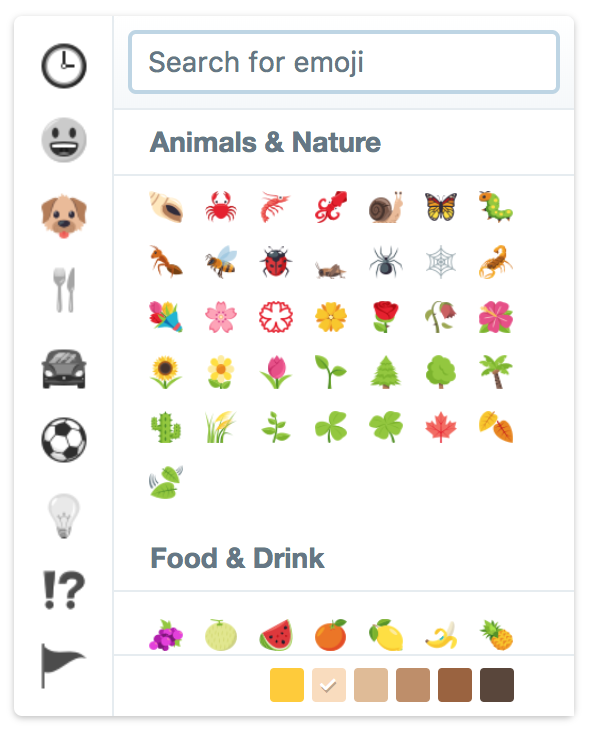
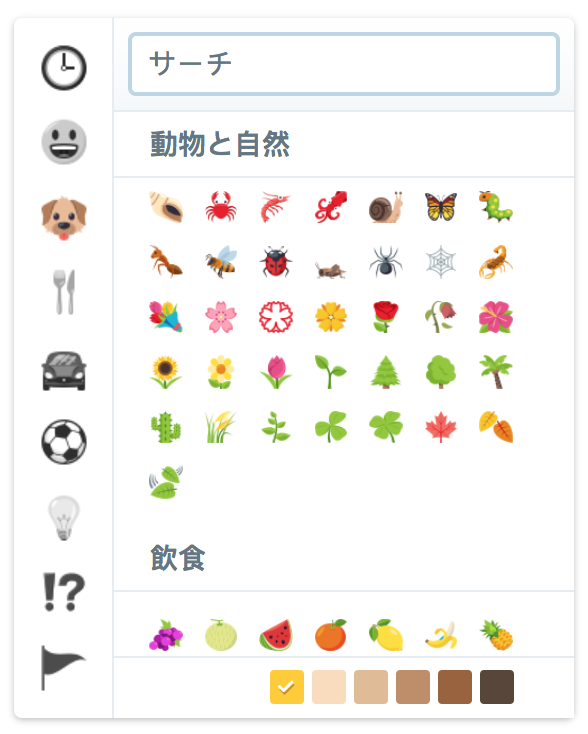
Add locale tests.

diff --git a/tests/bundle.js b/tests/bundle.js
@@ -99,6 +99,19 @@ const skinIcons = {
   dark: <i className="fas fa-hand-paper" />,
 };
 
+const japaneseMessages = {
+  frequentlyUsed: '頻繁に使用される',
+  smileysPeople: 'スマイリーと人々',
+  animalsNature: '動物と自然',
+  foodDrink: '飲食',
+  travelPlaces: '旅行と場所',
+  activities: 'アクティビティ',
+  objects: 'オブジェクト',
+  symbols: 'シンボル',
+  flags: 'フラグ',
+  search: 'サーチ',
+};
+
 const Interweave = withEmojiData(BaseInterweave);
 
 function App() {
@@ -120,9 +133,7 @@ function App() {
             displayOrder={['groups', 'search', 'emojis', 'preview']}
             emojiPadding={6}
             groupIcons={slackGroupIcons}
-            messages={{
-              noPreview: 'Emoji Deluxe™',
-            }}
+            messages={{ noPreview: 'Emoji Deluxe™' }}
             skinIcons={skinIcons}
           />
         </div>
@@ -140,9 +151,7 @@ function App() {
             displayOrder={['groups', 'search', 'emojis', 'preview']}
             emojiPadding={6}
             groupIcons={slackGroupIcons}
-            messages={{
-              noPreview: 'Emoji Deluxe™',
-            }}
+            messages={{ noPreview: 'Emoji Deluxe™' }}
             skinIcons={skinIcons}
             virtual
           />
@@ -164,9 +173,8 @@ function App() {
             emojiPadding={3.5}
             emojiSize={17.5}
             groupIcons={twitterGroupIcons}
-            messages={{
-              search: 'Search for emoji',
-            }}
+            locale="ja"
+            messages={japaneseMessages}
           />
         </div>
 
@@ -187,9 +195,8 @@ function App() {
             emojiPadding={3.5}
             emojiSize={17.5}
             groupIcons={twitterGroupIcons}
-            messages={{
-              search: 'Search for emoji',
-            }}
+            locale="ja"
+            messages={japaneseMessages}
             rowCount={9}
             virtual={{
               columnPadding: 1.5,

diff --git a/packages/interweave-emoji-picker/README.md b/packages/interweave-emoji-picker/README.md
@@ -1,7 +1,26 @@
 # Interweave Emoji Picker
 
 A React based emoji picker powered by [Interweave](https://github.com/milesj/interweave)
-and [Emojibase][emojibase].
+and [Emojibase][emojibase]. Supports the following features:
+
+* Customizable theme, styles, and icons.
+* Configurable element and render order.
+* Localized emoji annotations.
+* Emoji grouping and categorization.
+* Multi-word deep search.
+* Skin tone palette selector.
+* Enlarged preview on hover.
+* Emoticons and shortcodes.
+* Recently and frequently used.
+* Virtualized rendering.
+* And much more!
+
+![Slack theme](https://raw.githubusercontent.com/milesj/interweave/master/docs/slack.png)
+![Twitter theme](https://raw.githubusercontent.com/milesj/interweave/master/docs/twitter.png)
+
+> [Slack](https://github.com/milesj/interweave/blob/master/tests/slack.css) and
+> [Twitter](https://github.com/milesj/interweave/blob/master/tests/twitter.css) themes
+> provided as an example of the library's robustness.
 
 ## Requirements
 
@@ -220,7 +239,7 @@ This approach enables non-standard solutions, like CSS modules and CSS-in-JS.
 ```
 
 The `emojiPadding` prop is an exception to the CSS pattern, as it pads the emoji button using
-inline styles. This is necessary for correctly computing widths and heights.
+inline styles. This is necessary for accurately computing widths and heights.
 
 ```javascript
 <EmojiPicker
